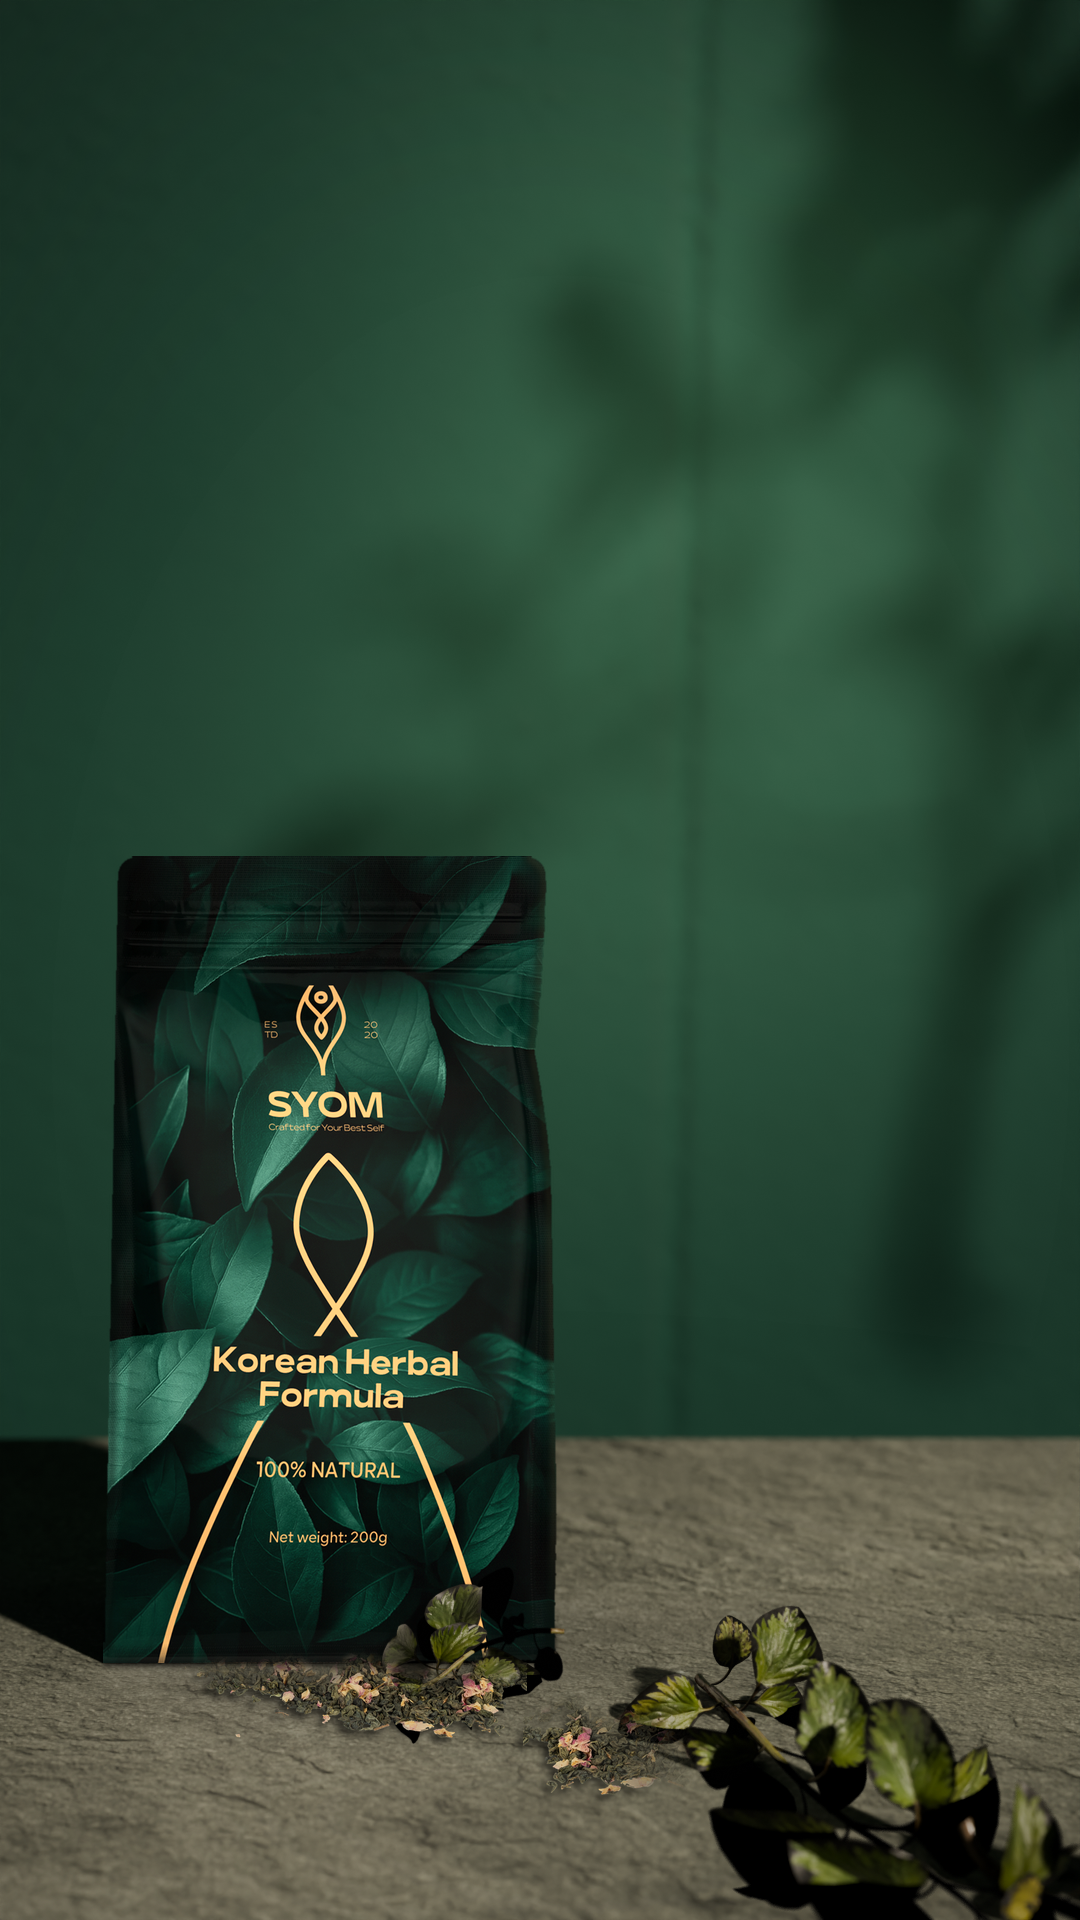
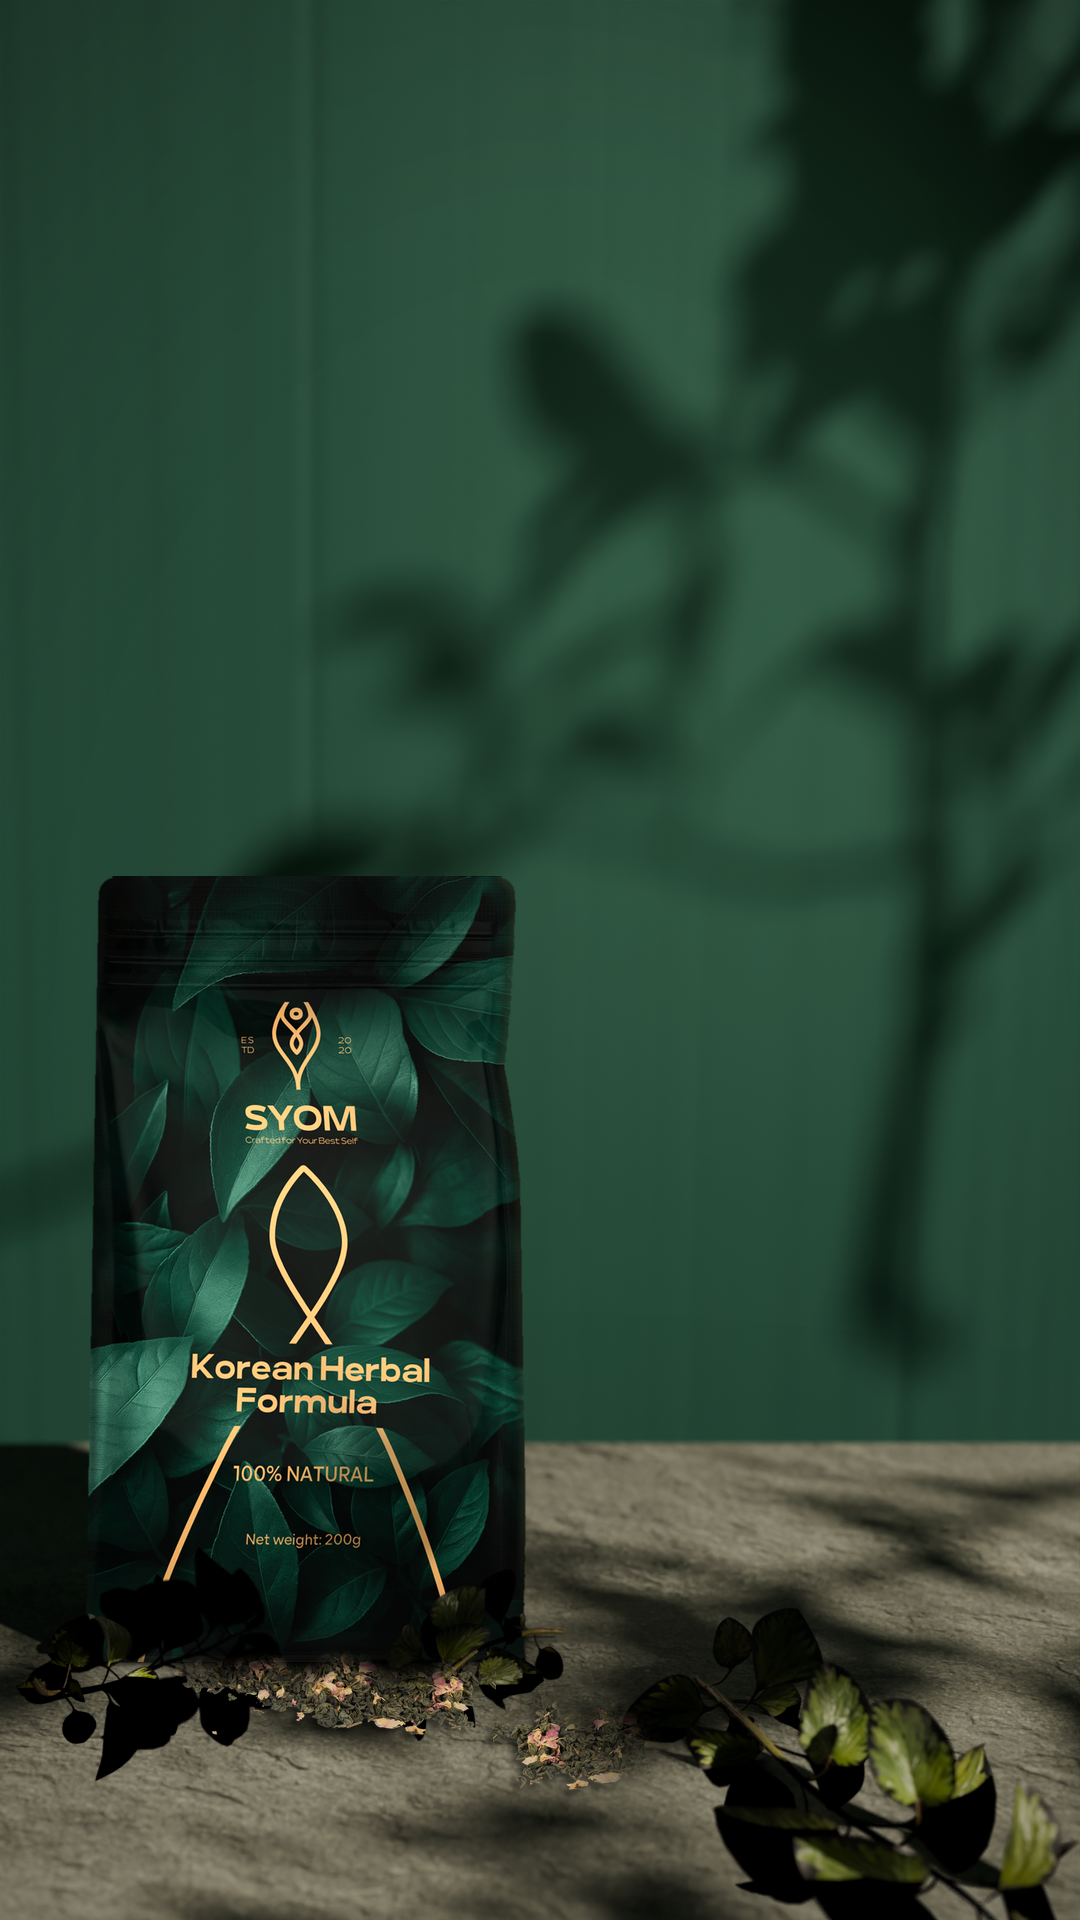
Syom ad 2: sprigs moved into the sun, softer tea spill, feed post layout

diff --git a/marketing/syom-tea/adE/ad-post.html b/marketing/syom-tea/adE/ad-post.html
@@ -1,0 +1,48 @@
+<!doctype html>
+<html lang="ar" dir="rtl">
+<head>
+<meta charset="utf-8">
+<title>Syom ad E post</title>
+<style>
+  @font-face { font-family: Lama; font-weight: 900; src: url('../files/brand/3- Fonts/LamaSans-Black.ttf'); }
+  @font-face { font-family: Lama; font-weight: 700; src: url('../files/brand/3- Fonts/LamaSans-Bold.ttf'); }
+  @font-face { font-family: Lama; font-weight: 500; src: url('../files/brand/3- Fonts/LamaSans-Medium.ttf'); }
+  :root { --lily: #ffebea; --gold: #e8b06f; }
+  body { margin: 0; background: #222; }
+  .f { position: relative; overflow: hidden; font-family: Lama; font-synthesis: none; color: var(--lily); }
+  .f > * { position: absolute; margin: 0; }
+  /* the same scene as the Story, rendered wider (plate-228.png, 1536x1920) and framed on the pouch:
+     the 1344x1680 crop at (120, 240) set at 1080x1350 */
+  #syom-adE-post { width: 1080px; height: 1350px; }
+  .plate { left: -96.4px; top: -192.9px; width: 1234.3px; height: 1542.9px; }
+
+  .logo { left: 46px; top: 54px; width: 176px; }
+  .head { right: 44px; top: 40px; font-weight: 900; font-size: 92px; line-height: 1.14; letter-spacing: -1px; text-align: right; }
+  .head span { display: block; white-space: nowrap; }
+
+  /* the answer sits right under the question, in the column beside the pouch */
+  .ans { right: 44px; top: 516px; font-weight: 900; font-size: 62px; line-height: 1.14; color: var(--gold); text-align: right; white-space: nowrap; }
+  .sub { right: 44px; top: 682px; font-weight: 700; font-size: 32px; line-height: 1.3; text-align: right; white-space: nowrap; }
+
+  .cta { right: 44px; top: 790px; text-align: right; }
+  .cta::before { content: ''; display: block; width: 60px; height: 3px; margin: 0 0 14px auto; background: var(--gold); }
+  .cta p { margin: 0; white-space: nowrap; }
+  .c1 { font-weight: 500; font-size: 30px; line-height: 1.3; }
+  .c2 { margin-top: 8px !important; font-weight: 900; font-size: 38px; line-height: 1.22; }
+</style>
+</head>
+<body>
+<div class="f" id="syom-adE-post">
+  <img class="plate" src="plate-228.png" alt="">
+  <img class="logo" src="logo.svg" alt="">
+  <p class="head"><span>وزنج زايد</span><span>والدايت مايفيد</span><span>وتخافين من</span><span>المنحفات؟</span></p>
+  <p class="ans">وصلتي<br>للحل الطبيعي</p>
+  <p class="sub">سيوم الكوري<br>يحقق هدفج</p>
+  <div class="cta">
+    <p class="c1">ابدي اليوم وعيشي التجربة</p>
+    <p class="c2">راسلينا وخلي<br>الباقي على سيوم</p>
+  </div>
+</div>
+<script>document.fonts.ready.then(() => setTimeout(() => (document.body.dataset.ready = '1'), 300));</script>
+</body>
+</html>

diff --git a/marketing/syom-tea/adE/compose.py b/marketing/syom-tea/adE/compose.py
@@ -115,6 +115,10 @@ def herbs(width, x, y, flip=False, keep=1.0, seed=0):
     en = cv2.GaussianBlur(r_.normal(0, 1, (1, al.shape[1])).astype(np.float32), (0, 0), 9)[0]
     en /= np.abs(en).max() + 1e-6
     al *= np.clip(np.linspace(0, 1, al.shape[0])[:, None] * 3.2 - 0.6 + 0.55 * en[None, :], 0, 1) ** 1.3
+    # and an uneven bottom edge, so the spill thins out on the stone instead of stopping on a line
+    eb = cv2.GaussianBlur(r_.normal(0, 1, (1, al.shape[1])).astype(np.float32), (0, 0), 7)[0]
+    eb /= np.abs(eb).max() + 1e-6
+    al *= np.clip((1 - np.linspace(0, 1, al.shape[0])[:, None]) * 4.0 - 0.3 + 0.6 * eb[None, :], 0, 1)
     s3 = np.zeros((H, W, 3), np.float32)
     over(s3, np.ones(al.shape + (3,), np.float32), al, x + OFF - 5, y + 5)     # the sun is on the right
     darken(img, cv2.GaussianBlur(s3[..., 0], (0, 0), 3) * 0.6)

diff --git a/marketing/syom-tea/adE/scene.py b/marketing/syom-tea/adE/scene.py
@@ -172,8 +172,7 @@ sprigs = [o for o in import_gltf('nettle_plant') if o.type == 'MESH']
 by = {o.name.split('_LOD')[0].replace('nettle_plant_', ''): o for o in sprigs}
 LAY = [  # (part, pixel u, v on the Story frame, turn about the vertical, scale)
     ('tall_a', 700, 1690, 200, 1.15),
-    ('medium_b', 560, 1640, 140, 1.0),
-    ('tall_b', 40, 1700, 330, 1.0),
+    ('medium_b', 600, 1730, 150, 1.0),
 ]
 for part, u, v, turn, s in LAY:
     o = by[part]
